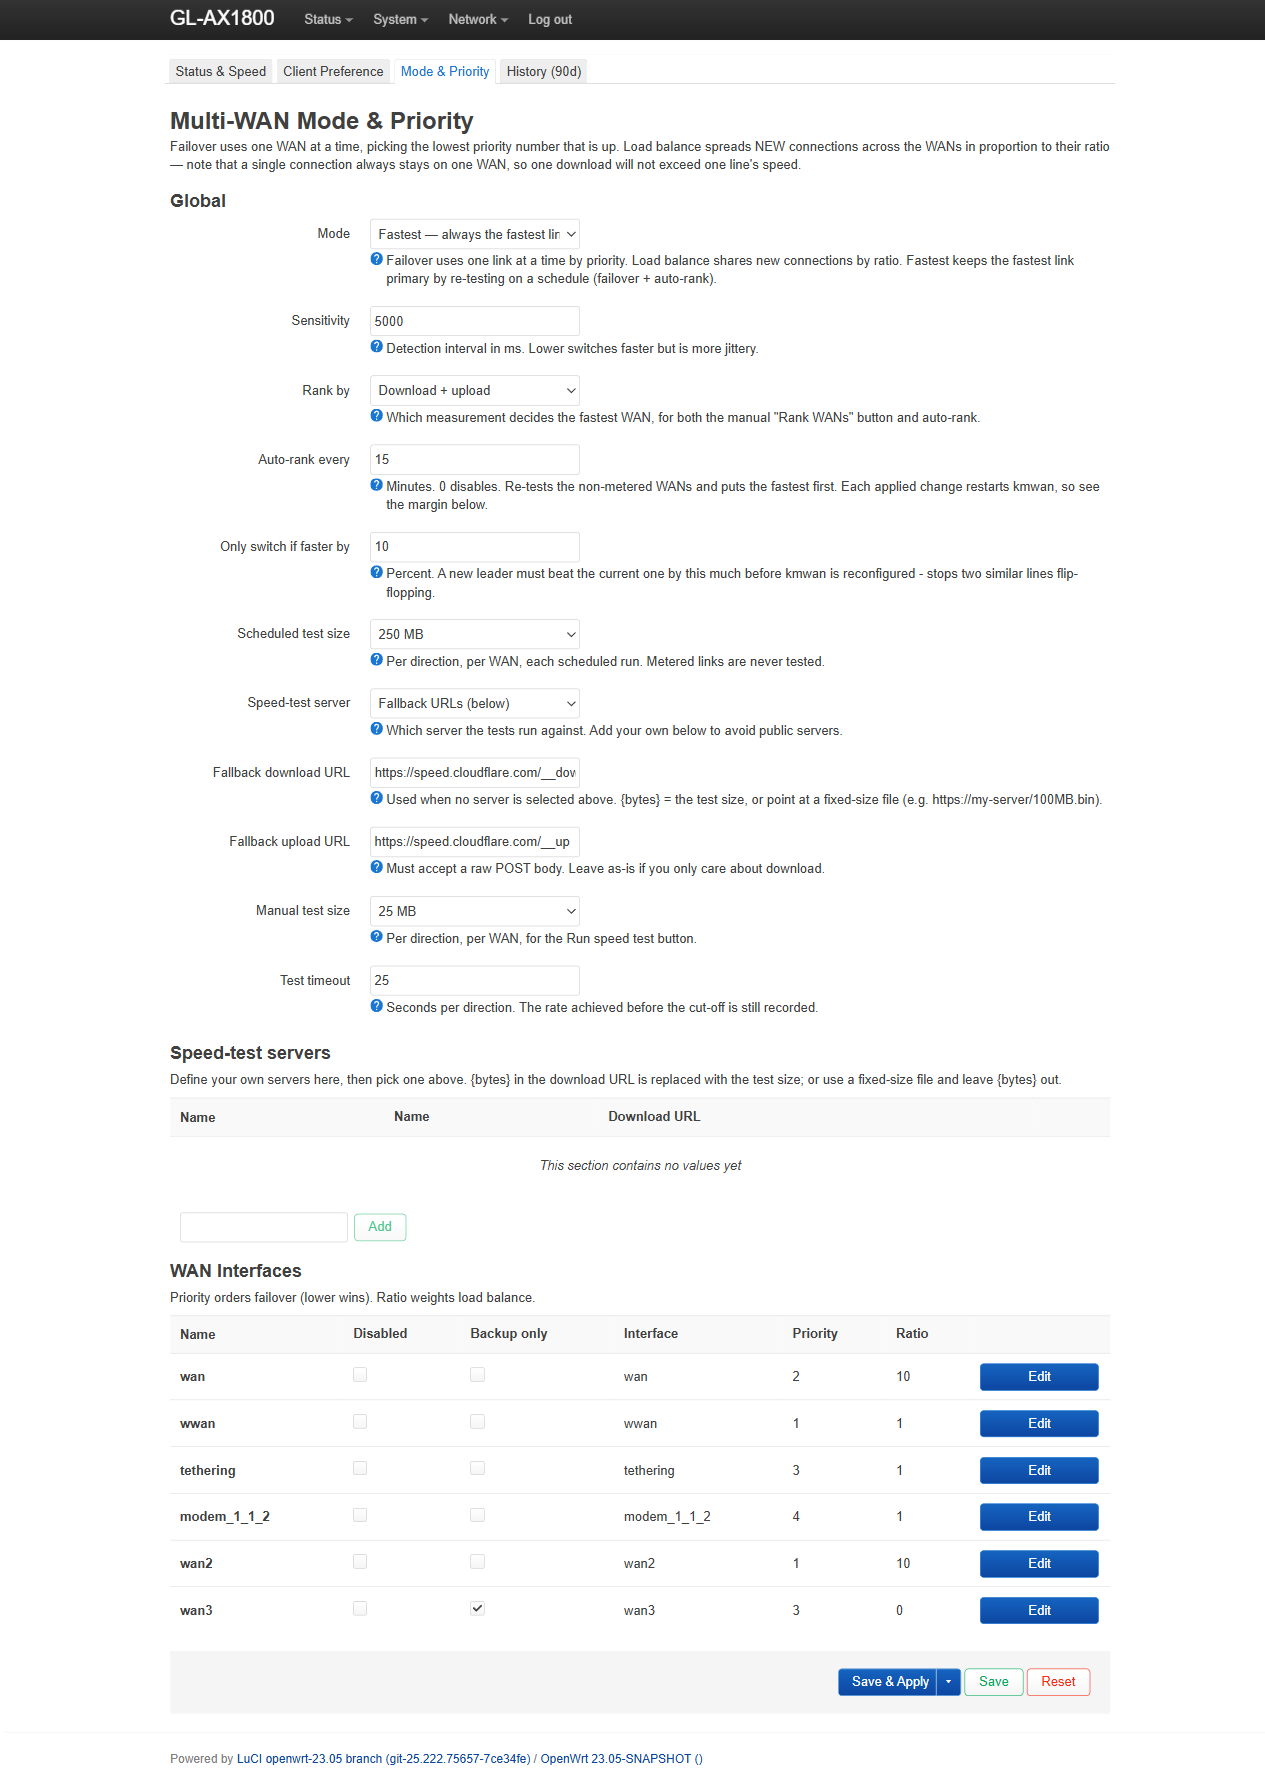
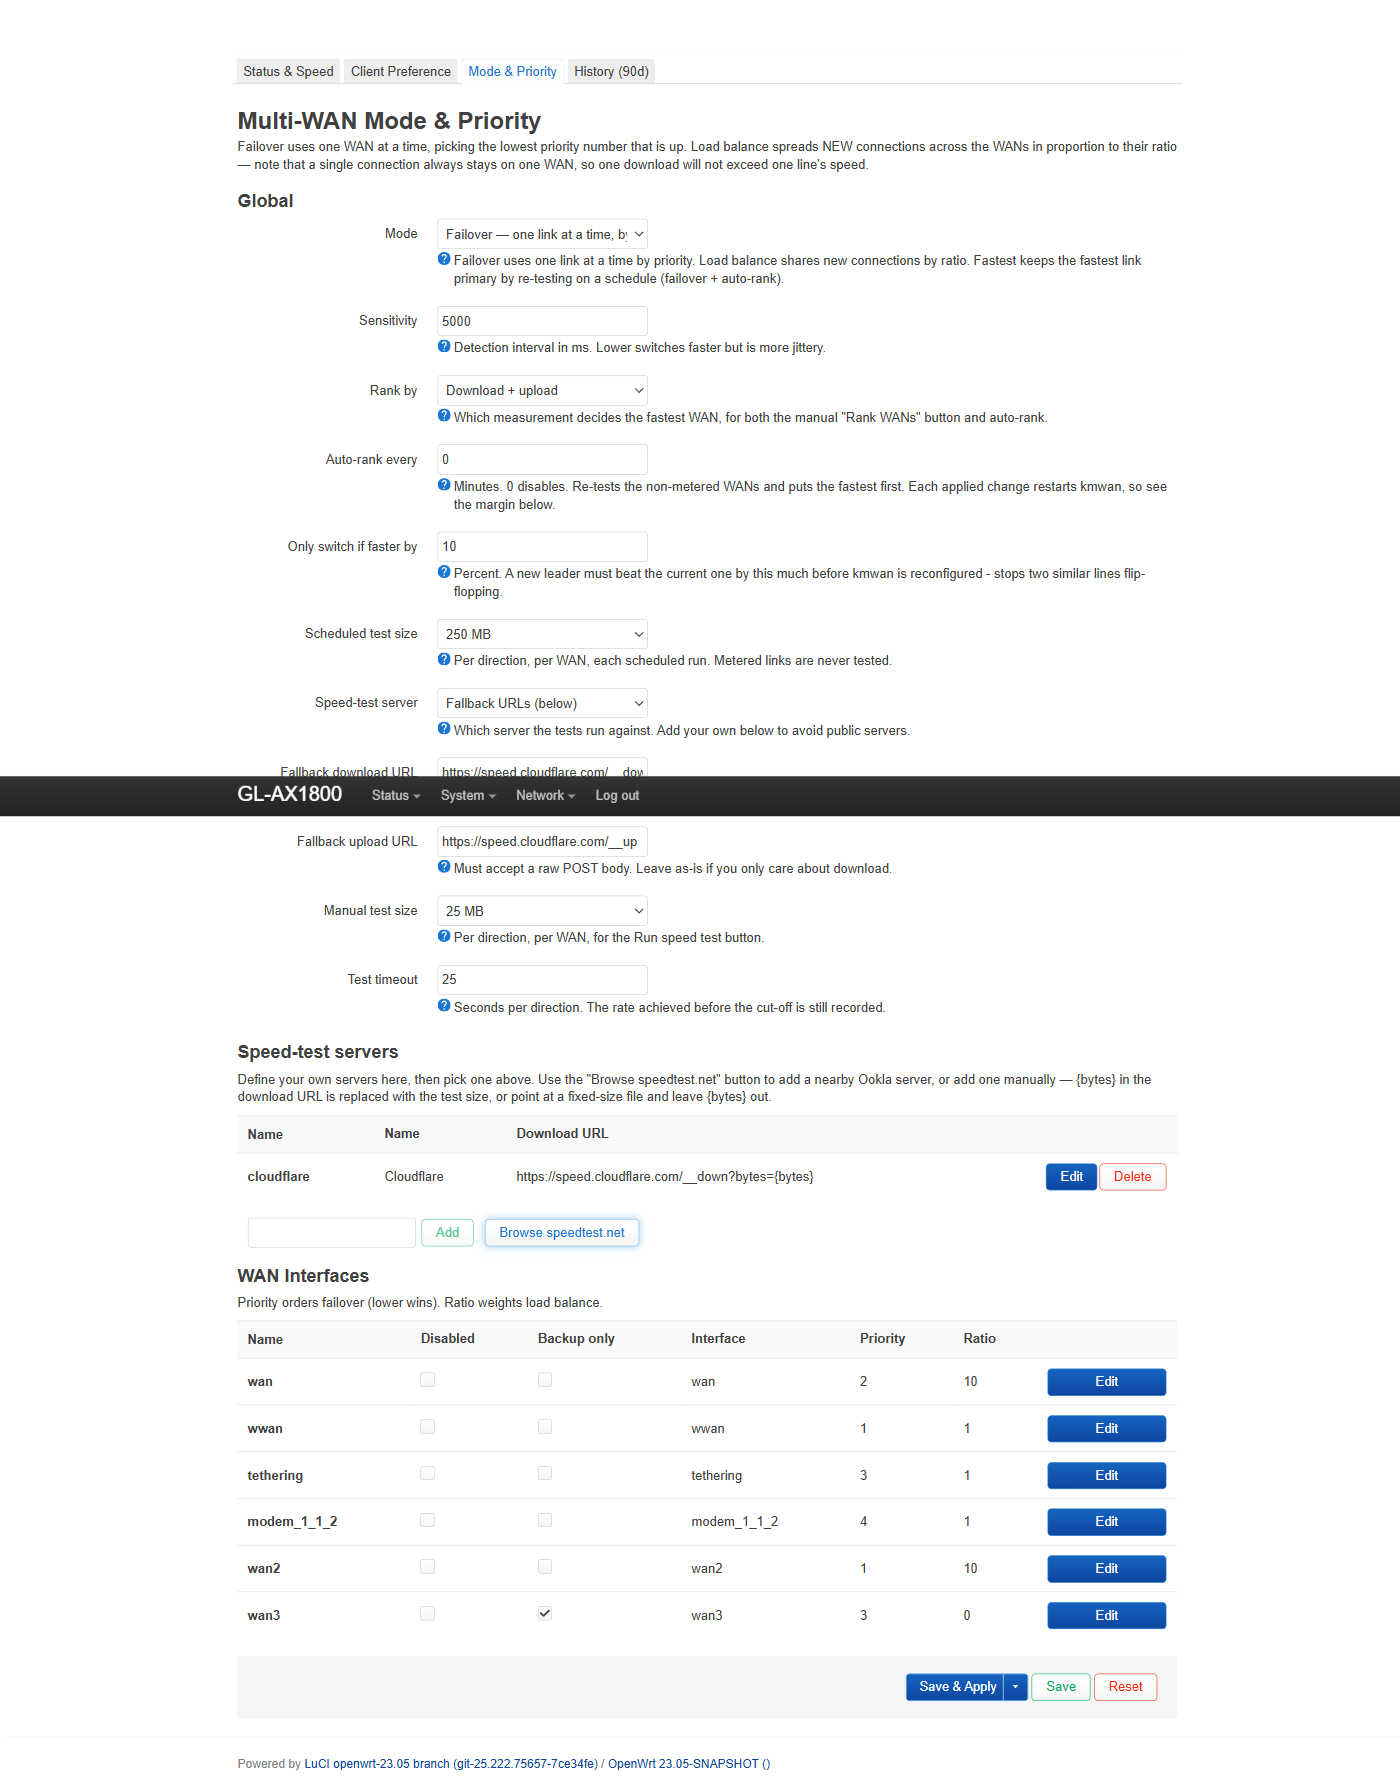
Fix server grid binding; add inline search to speedtest.net picker
- Speed-test servers grid now binds to the multikmwan config (was bound to
  kmwan, so seeded/added profiles never displayed). Split into three maps:
  kmwan globals, multikmwan servers, kmwan members.
- Speed-test picker gains a search box: query Ookla by city/ISP/name, blank
  for nearest (stservers rpc takes a search param).
- Refreshed mode screenshot; added speedtest-browser screenshot.

diff --git a/htdocs/luci-static/resources/view/multikmwan/mode.js b/htdocs/luci-static/resources/view/multikmwan/mode.js
@@ -7,54 +7,75 @@
 
 var callSetMode = rpc.declare({ object: 'luci.multikmwan', method: 'setmode',
                                 params: [ 'mode' ] });
-var callStServers = rpc.declare({ object: 'luci.multikmwan', method: 'stservers' });
+var callStServers = rpc.declare({ object: 'luci.multikmwan', method: 'stservers',
+                                  params: [ 'search' ] });
 var callAddServer = rpc.declare({ object: 'luci.multikmwan', method: 'add_server',
                                   params: [ 'label', 'down', 'up' ] });
 
-// Modal: fetch nearest speedtest.net servers and add the picked one as a
-// server profile. Each Ookla server speaks the classic HTTP protocol
-// (random*.jpg download + upload.php), which our fixed-file test handles.
+// Modal: search/browse speedtest.net (Ookla) servers and add one as a profile.
+// Each Ookla server speaks the classic HTTP protocol (random*.jpg download +
+// upload.php), which our fixed-file test handles.
 function browseSpeedtestNet() {
-	ui.showModal(_('Add a speedtest.net server'), [
-		E('p', { 'class': 'spinning' }, _('Finding nearby servers…'))
-	]);
-	callStServers().then(function(res) {
-		var servers = (res && res.servers) || [];
-		var rows = servers.map(function(sv) {
-			var title = sv.sponsor + ' — ' + sv.name +
-				(sv.cc ? ', ' + sv.cc : '') + (sv.dist ? '  (' + sv.dist + ' km)' : '');
-			return E('div', { 'style': 'display:flex;justify-content:space-between;' +
-				'align-items:center;gap:10px;padding:6px 0;border-bottom:1px solid rgba(128,128,128,.15)' }, [
-				E('span', {}, title),
-				E('button', { 'class': 'cbi-button cbi-button-add',
-					'click': function() {
-						callAddServer(sv.sponsor + ' (' + sv.name + ')', sv.down, sv.up).then(function() {
-							ui.hideModal();
-							ui.addNotification(null, E('p', _('Added ') + sv.sponsor +
-								_('. It is now in the Speed-test server list.')), 'info');
-							window.setTimeout(function() { location.reload(); }, 800);
-						});
-					} }, _('Add'))
-			]);
+	var listBox = E('div', { 'style': 'max-height:48vh;overflow:auto;margin-top:8px' });
+	var input = E('input', { 'type': 'text', 'class': 'cbi-input-text',
+		'style': 'flex:1',
+		'placeholder': _('Search by city, ISP or name — blank for nearest') });
+
+	function rowFor(sv) {
+		var title = sv.sponsor + ' — ' + sv.name +
+			(sv.cc ? ', ' + sv.cc : '') + (sv.dist ? '  (' + sv.dist + ' km)' : '');
+		return E('div', { 'style': 'display:flex;justify-content:space-between;' +
+			'align-items:center;gap:10px;padding:6px 0;border-bottom:1px solid rgba(128,128,128,.15)' }, [
+			E('span', {}, title),
+			E('button', { 'class': 'cbi-button cbi-button-add',
+				'click': function() {
+					callAddServer(sv.sponsor + ' (' + sv.name + ')', sv.down, sv.up).then(function() {
+						ui.hideModal();
+						ui.addNotification(null, E('p', _('Added ') + sv.sponsor +
+							_('. It is now in the Speed-test server list.')), 'info');
+						window.setTimeout(function() { location.reload(); }, 800);
+					});
+				} }, _('Add'))
+		]);
+	}
+
+	function load(q) {
+		listBox.innerHTML = '';
+		listBox.appendChild(E('p', { 'class': 'spinning' },
+			q ? _('Searching…') : _('Finding nearby servers…')));
+		callStServers(q || '').then(function(res) {
+			var servers = (res && res.servers) || [];
+			listBox.innerHTML = '';
+			if (!servers.length) {
+				listBox.appendChild(E('p', {}, _('No servers found. Try another ' +
+					'search term, or check the router has internet.')));
+				return;
+			}
+			servers.forEach(function(sv) { listBox.appendChild(rowFor(sv)); });
+		}).catch(function(e) {
+			listBox.innerHTML = '';
+			listBox.appendChild(E('p', {}, _('Could not fetch the list: ') + (e.message || e)));
 		});
-		if (!rows.length)
-			rows = [ E('p', {}, _('No servers returned. Check the router has internet.')) ];
-		ui.showModal(_('Add a speedtest.net server'), [
-			E('p', {}, _('Nearest servers to you. Add one, then pick it as the ' +
-				'Speed-test server above.')),
-			E('div', { 'style': 'max-height:50vh;overflow:auto' }, rows),
-			E('div', { 'class': 'right' }, [
-				E('button', { 'class': 'cbi-button', 'click': ui.hideModal }, _('Close'))
-			])
-		]);
-	}).catch(function(e) {
-		ui.showModal(_('Add a speedtest.net server'), [
-			E('p', {}, _('Could not fetch the server list: ') + (e.message || e)),
-			E('div', { 'class': 'right' }, [
-				E('button', { 'class': 'cbi-button', 'click': ui.hideModal }, _('Close'))
-			])
-		]);
+	}
+
+	input.addEventListener('keydown', function(ev) {
+		if (ev.key === 'Enter') { ev.preventDefault(); load(input.value.trim()); }
 	});
+
+	ui.showModal(_('Add a speedtest.net server'), [
+		E('p', {}, _('Search Ookla servers by city, ISP or name, or leave blank ' +
+			'for the nearest. Add one, then pick it as the Speed-test server above.')),
+		E('div', { 'style': 'display:flex;gap:8px' }, [
+			input,
+			E('button', { 'class': 'cbi-button cbi-button-action',
+				'click': function() { load(input.value.trim()); } }, _('Search'))
+		]),
+		listBox,
+		E('div', { 'class': 'right', 'style': 'margin-top:10px' }, [
+			E('button', { 'class': 'cbi-button', 'click': ui.hideModal }, _('Close'))
+		])
+	]);
+	load('');
 }
 
 return view.extend({
@@ -167,8 +188,10 @@ return view.extend({
 		o.datatype = 'range(5,300)';
 		mkopt('st_timeout', '25');
 
-		// --- your own speed-test servers ---
-		s = m.section(form.GridSection, 'server', _('Speed-test servers'),
+		// --- your own speed-test servers (separate map: profiles live in the
+		//     multikmwan config, not kmwan, so the grid must bind to it) ---
+		var m2 = new form.Map('multikmwan');
+		s = m2.section(form.GridSection, 'server', _('Speed-test servers'),
 			_('Define your own servers here, then pick one above. Use the ' +
 			  '"Browse speedtest.net" button to add a nearby Ookla server, or add ' +
 			  'one manually — {bytes} in the download URL is replaced with the test ' +
@@ -187,7 +210,9 @@ return view.extend({
 		o.placeholder = _('(optional)');
 		o.modalonly = true;
 
-		s = m.section(form.GridSection, 'member', _('WAN Interfaces'),
+		// --- WAN interfaces (kmwan members): its own kmwan map ---
+		var m3 = new form.Map('kmwan');
+		s = m3.section(form.GridSection, 'member', _('WAN Interfaces'),
 			_('Priority orders failover (lower wins). Ratio weights load balance.'));
 		s.addremove = false;
 		s.anonymous = false;
@@ -242,20 +267,27 @@ return view.extend({
 			_('Format: ping,1.1.1.1'));
 		o.modalonly = true;
 
-		// Inject a "Browse speedtest.net" button next to the server section's
-		// Add button once the map has rendered (reliable across LuCI versions).
-		return m.render().then(function(node) {
-			var creates = node.querySelectorAll('.cbi-section-create');
-			var host = creates.length ? creates[creates.length - 1] : null;
-			if (host) {
+		// Three maps: kmwan globals (m), multikmwan servers (m2), kmwan members (m3).
+		this.maps = [ m, m2, m3 ];
+		return Promise.all([ m.render(), m2.render(), m3.render() ]).then(function(nodes) {
+			// Add the "Browse speedtest.net" button to the servers map (nodes[1]).
+			var host = nodes[1].querySelector('.cbi-section-create');
+			if (host)
 				host.appendChild(E('button', {
 					'class': 'cbi-button cbi-button-action',
 					'style': 'margin-left:8px',
 					'click': function(ev) { ev.preventDefault(); browseSpeedtestNet(); }
 				}, _('Browse speedtest.net')));
-			}
-			return node;
+			return E('div', {}, nodes);
 		});
+	},
+
+	handleSave: function(ev) {
+		return Promise.all(this.maps.map(function(mp) { return mp.save(); }));
+	},
+
+	handleReset: function(ev) {
+		return Promise.all(this.maps.map(function(mp) { return mp.reset(); }));
 	},
 
 	handleSaveApply: function(ev) {
